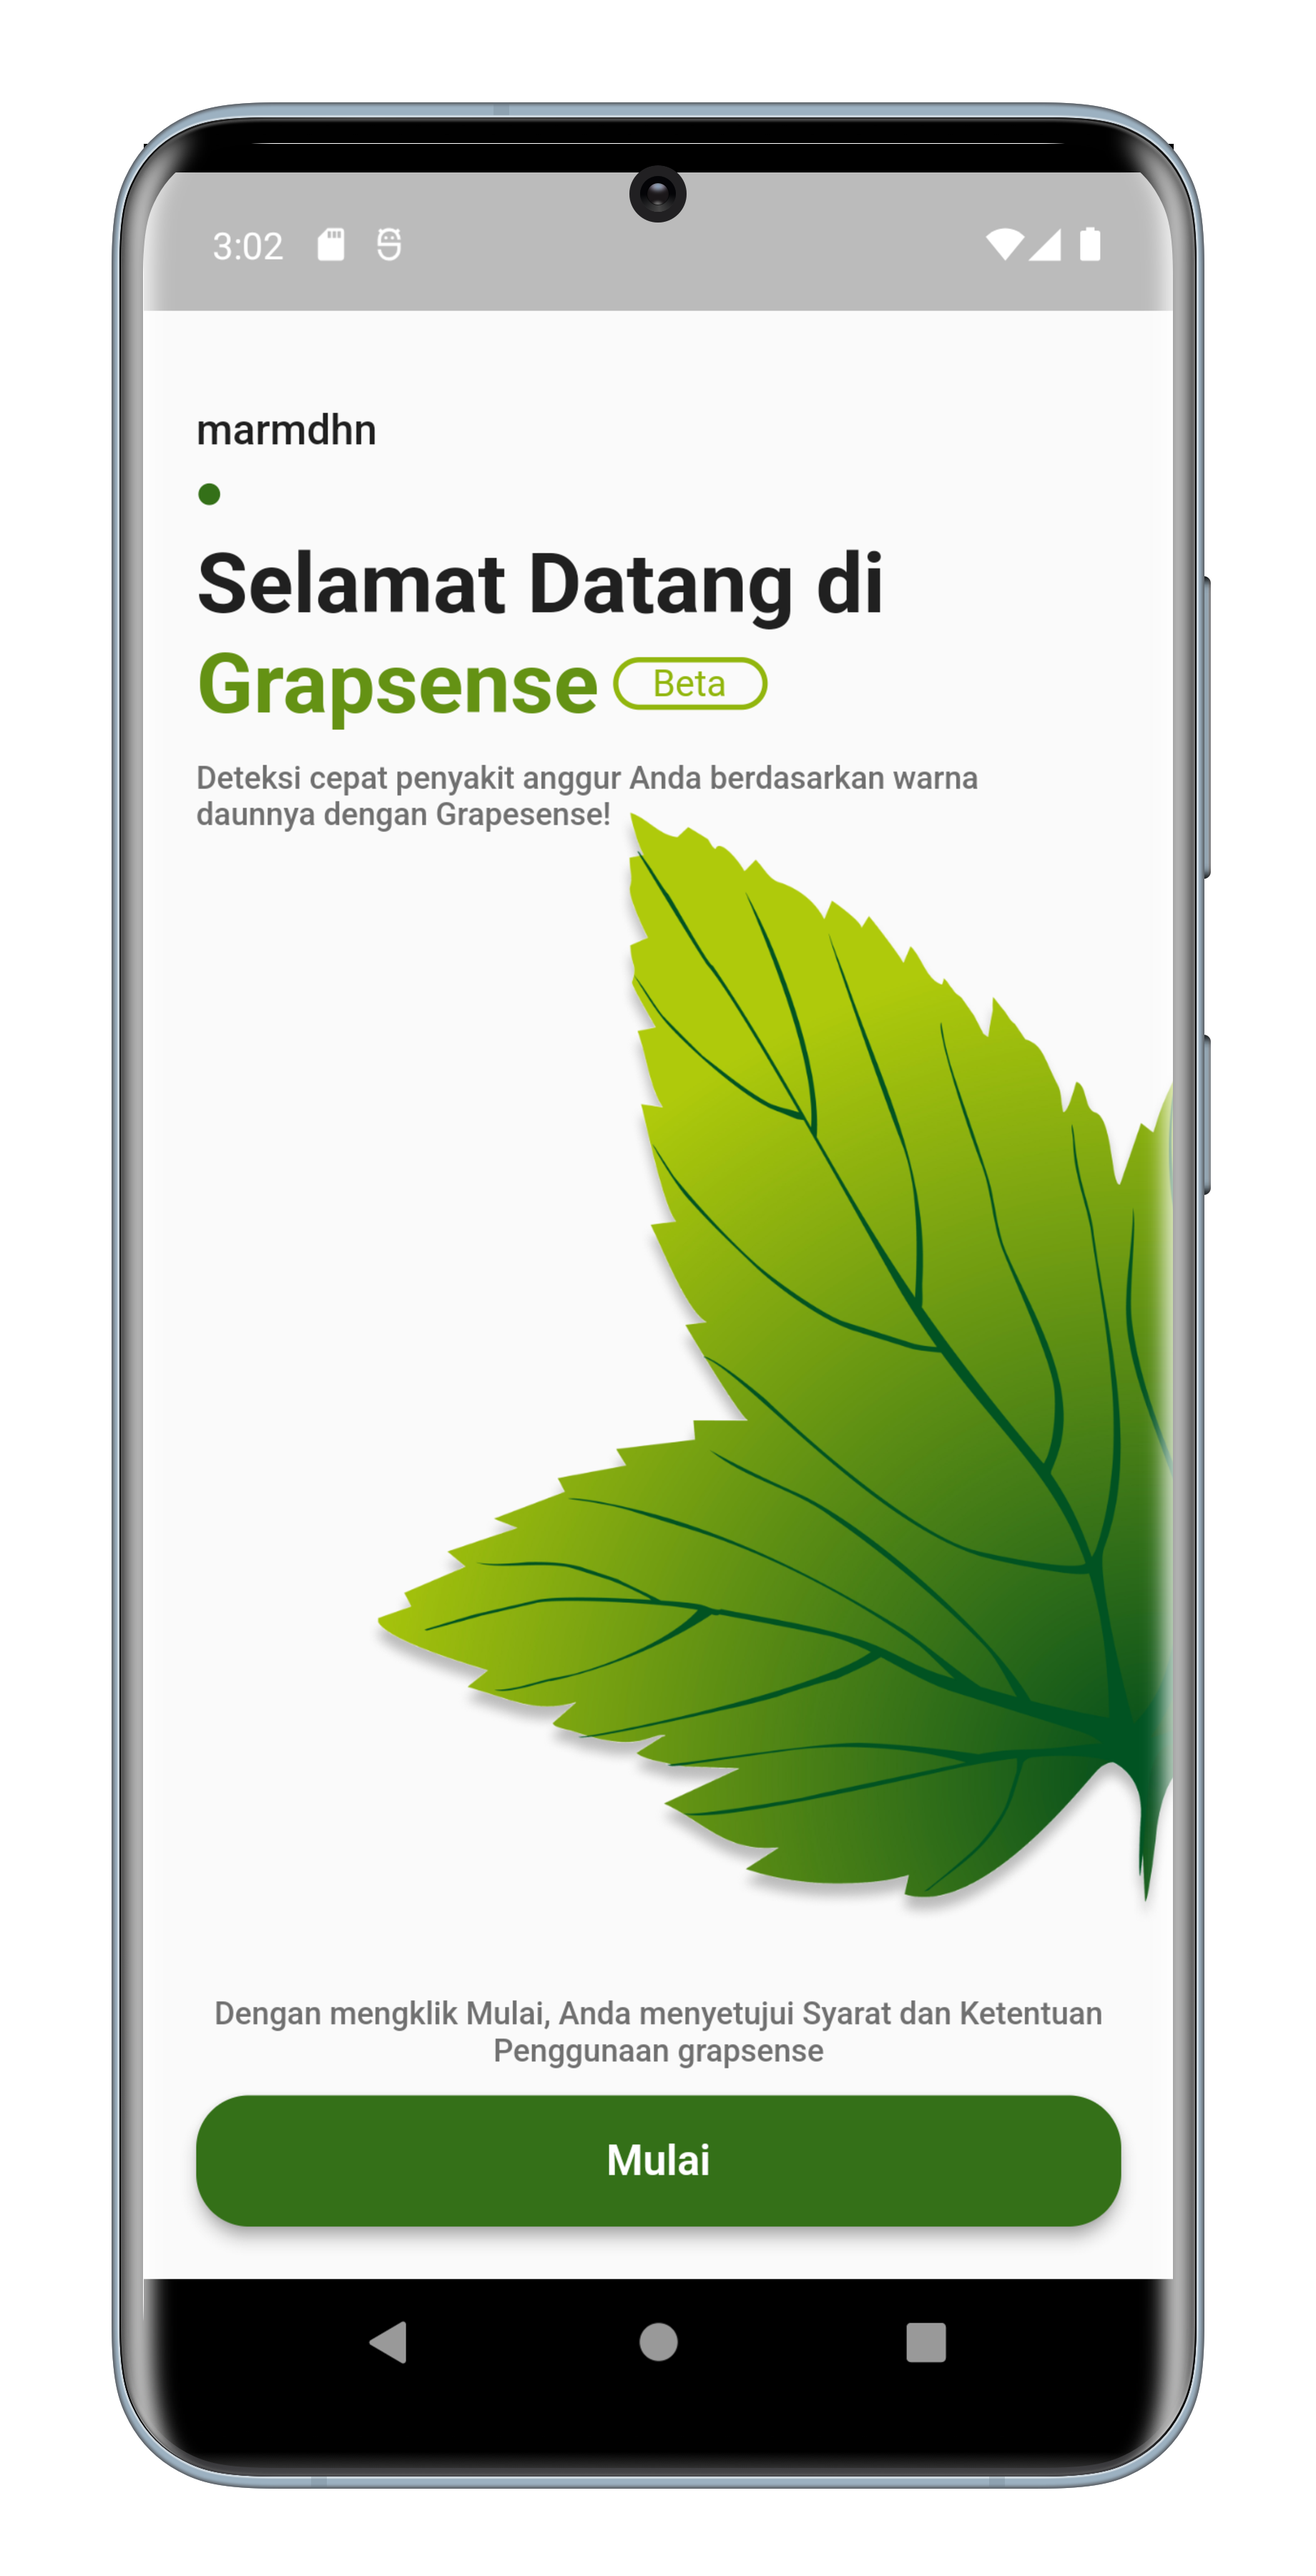
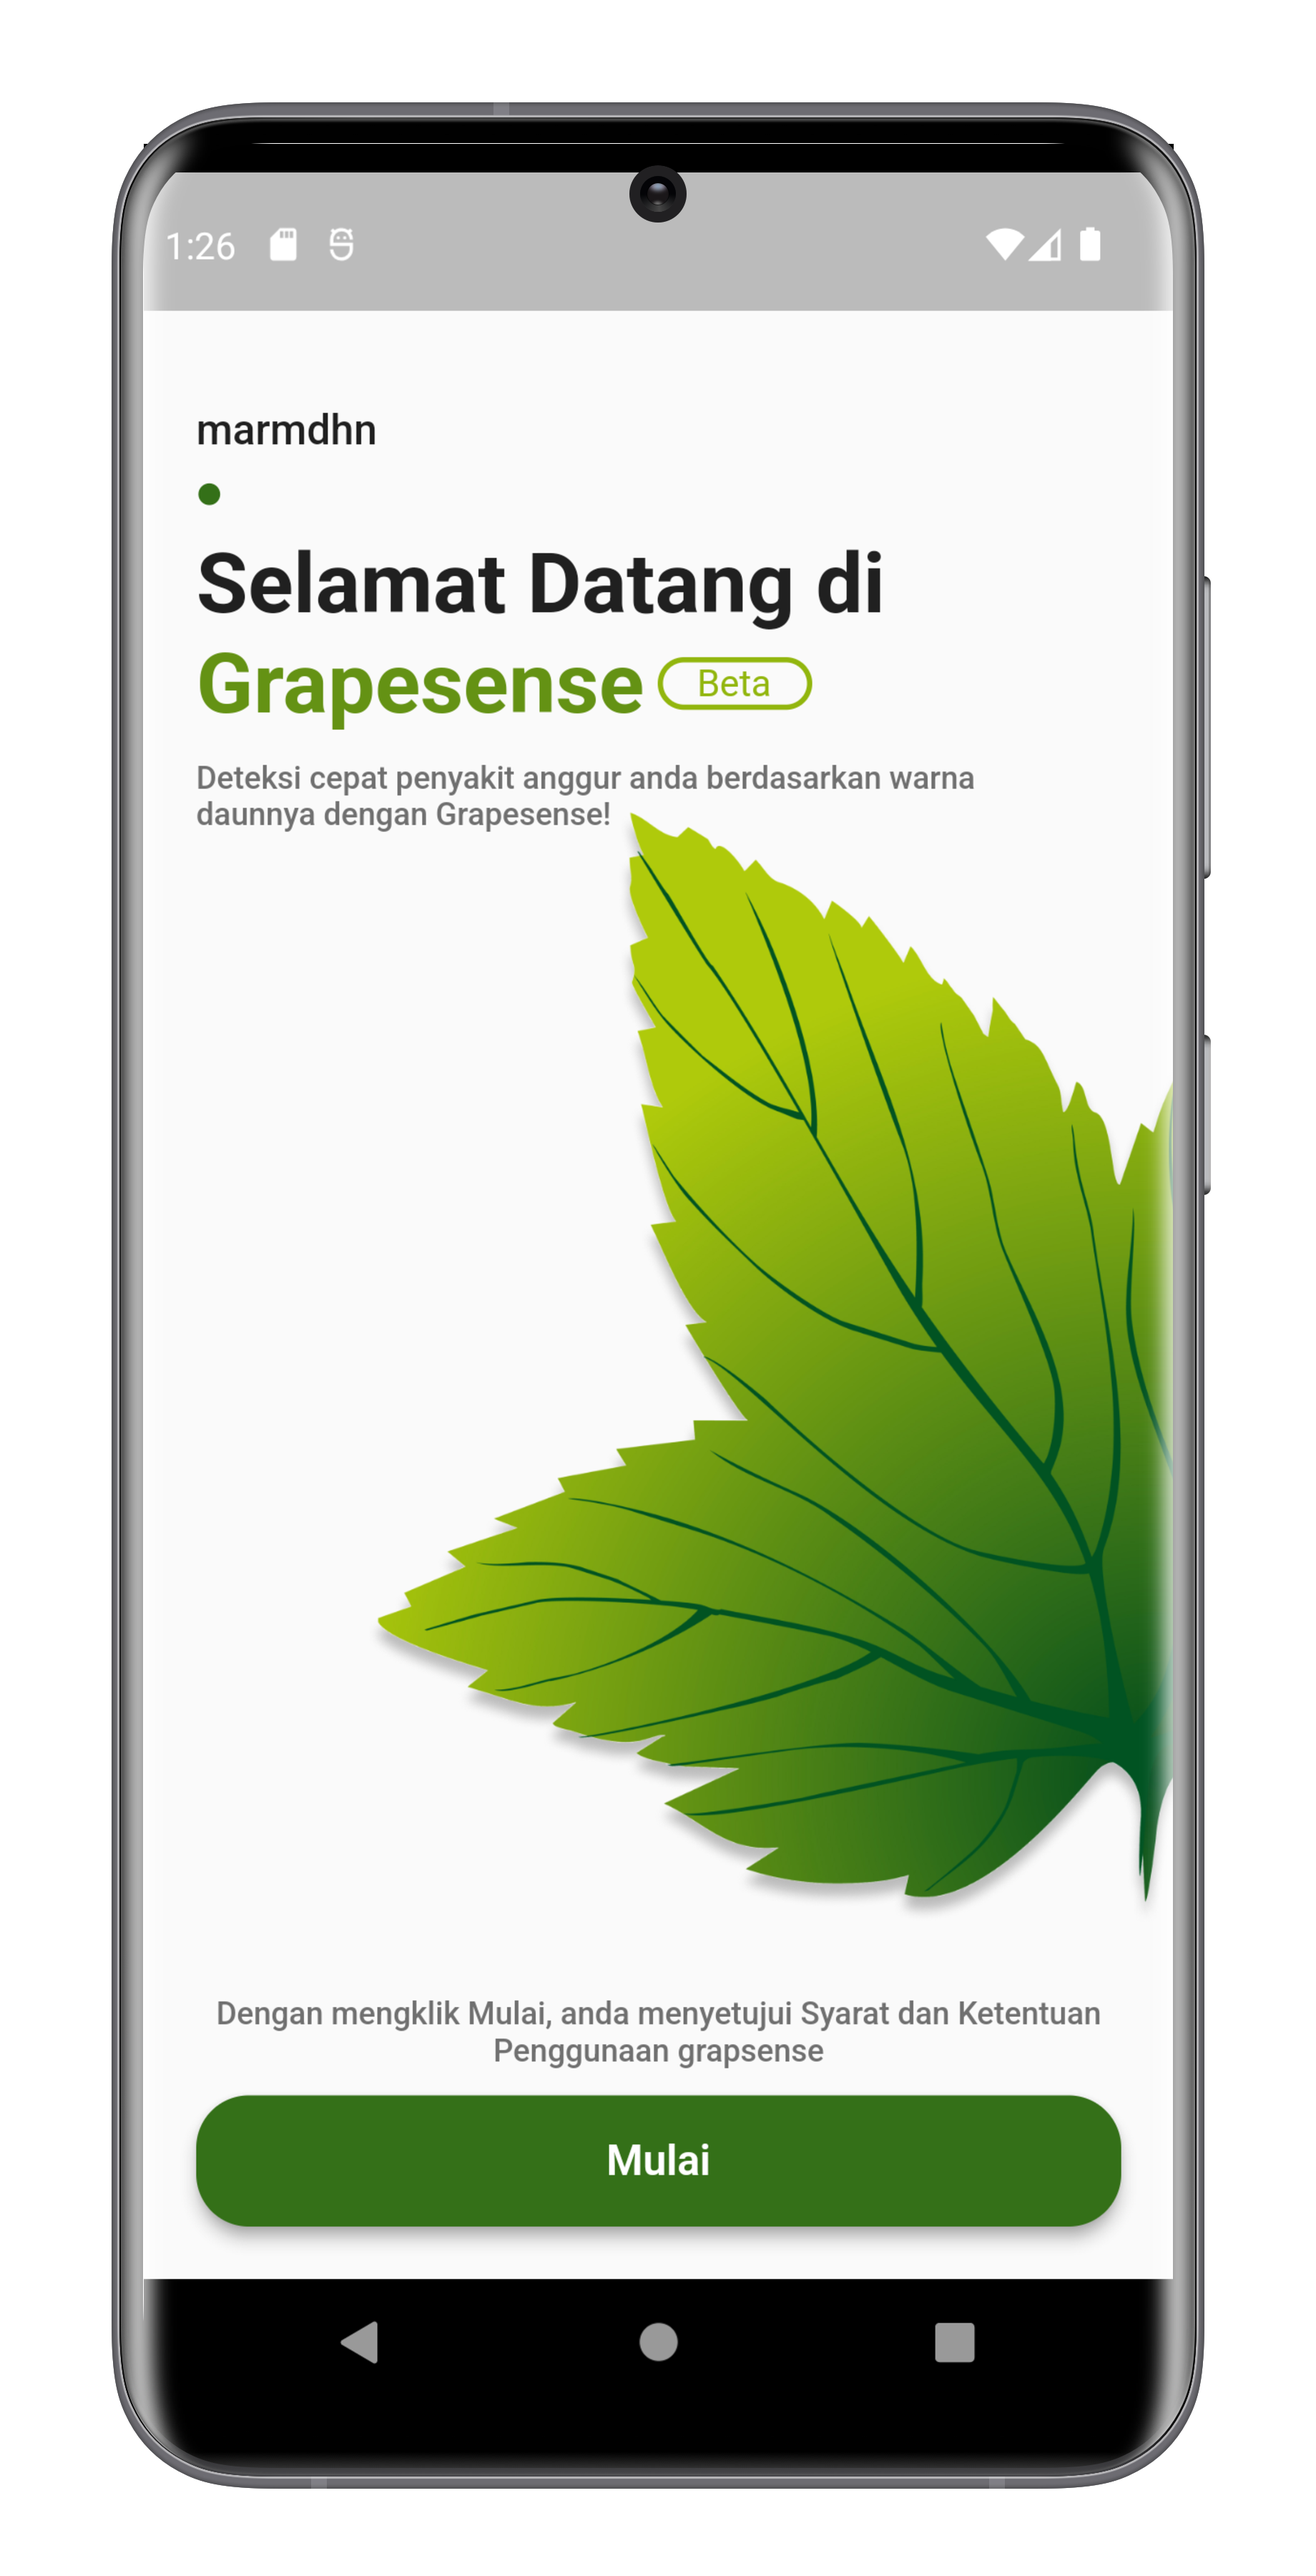
update 25 Juni 2023

diff --git a/skripsi_app_frontend/lib/screens/home/components/sidebar.dart b/skripsi_app_frontend/lib/screens/home/components/sidebar.dart
@@ -88,7 +88,7 @@ class _SideBarState extends State<SideBar> {
                   icon: Icons.logout,
                   onClicked: () async {
                     final action = await AlertDialogs.yesCancelDialog(
-                        context, 'Exit', 'are you sure?');
+                        context, 'Keluar', 'Apa kamu yakin untuk keluar?');
                     if (action == DialogsAction.yes) {
                       exit(0);
                     }
@@ -116,5 +116,67 @@ class _SideBarState extends State<SideBar> {
       hoverColor: hoverColor,
       onTap: onClicked,
     );
+  }
+}
+
+enum DialogsAction { yes, cancel }
+
+class AlertDialogs {
+  static Future<DialogsAction> yesCancelDialog(
+    BuildContext context,
+    String title,
+    String body,
+  ) async {
+    final action = await showDialog(
+      context: context,
+      barrierDismissible: false,
+      builder: (BuildContext context) {
+        return AlertDialog(
+          shape:
+              RoundedRectangleBorder(borderRadius: BorderRadius.circular(10.0)),
+          title: Text(
+            title,
+            style: const TextStyle(
+              fontSize: 18,
+              fontWeight: FontWeight.w600,
+              color: kHighlightTxtClr,
+            ),
+          ),
+          content: Text(
+            body,
+            style: const TextStyle(
+              fontSize: 16,
+              fontWeight: FontWeight.w400,
+              color: kHighlightTxtClr,
+            ),
+          ),
+          actions: <Widget>[
+            Row(
+              mainAxisAlignment: MainAxisAlignment.spaceAround,
+              children: [
+                MaterialButton(
+                  onPressed: () =>
+                      Navigator.of(context).pop(DialogsAction.cancel),
+                  child: const Text(
+                    'Tidak',
+                    style: TextStyle(
+                        color: kHighlightTxtClr, fontWeight: FontWeight.bold),
+                  ),
+                ),
+                MaterialButton(
+                  onPressed: () => Navigator.of(context).pop(DialogsAction.yes),
+                  child: const Text(
+                    'Iya',
+                    style: TextStyle(
+                        color: kDangerClr, fontWeight: FontWeight.w700),
+                  ),
+                )
+              ],
+            )
+          ],
+        );
+      },
+    );
+    return (action != null) ? action : DialogsAction.cancel;
   }
 }

diff --git a/skripsi_app_frontend/lib/screens/home/home_screen.dart b/skripsi_app_frontend/lib/screens/home/home_screen.dart
@@ -21,7 +21,10 @@ class _HomeScreenState extends State<HomeScreen> {
   final ImagePicker picker = ImagePicker();
 
   Future getImageCam() async {
-    final pickedFile = await picker.pickImage(source: ImageSource.camera);
+    final pickedFile = await picker.pickImage(
+      source: ImageSource.camera,
+      preferredCameraDevice: CameraDevice.rear,
+    );
     if (pickedFile != null) {
       image = File(pickedFile.path);
     }
@@ -243,67 +246,5 @@ class _HomeScreenState extends State<HomeScreen> {
         ),
       ),
     );
-  }
-}
-
-enum DialogsAction { yes, cancel }
-
-class AlertDialogs {
-  static Future<DialogsAction> yesCancelDialog(
-    BuildContext context,
-    String title,
-    String body,
-  ) async {
-    final action = await showDialog(
-      context: context,
-      barrierDismissible: false,
-      builder: (BuildContext context) {
-        return AlertDialog(
-          shape:
-              RoundedRectangleBorder(borderRadius: BorderRadius.circular(10.0)),
-          title: Text(
-            title,
-            style: const TextStyle(
-              fontSize: 18,
-              fontWeight: FontWeight.w600,
-              color: kHighlightTxtClr,
-            ),
-          ),
-          content: Text(
-            body,
-            style: const TextStyle(
-              fontSize: 16,
-              fontWeight: FontWeight.w400,
-              color: kHighlightTxtClr,
-            ),
-          ),
-          actions: <Widget>[
-            Row(
-              mainAxisAlignment: MainAxisAlignment.spaceAround,
-              children: [
-                MaterialButton(
-                  onPressed: () =>
-                      Navigator.of(context).pop(DialogsAction.cancel),
-                  child: const Text(
-                    'Cancel',
-                    style: TextStyle(
-                        color: kHighlightTxtClr, fontWeight: FontWeight.bold),
-                  ),
-                ),
-                MaterialButton(
-                  onPressed: () => Navigator.of(context).pop(DialogsAction.yes),
-                  child: const Text(
-                    'Yes',
-                    style: TextStyle(
-                        color: kDangerClr, fontWeight: FontWeight.w700),
-                  ),
-                )
-              ],
-            )
-          ],
-        );
-      },
-    );
-    return (action != null) ? action : DialogsAction.cancel;
   }
 }

diff --git a/skripsi_app_frontend/lib/screens/welcome/welcome_screen.dart b/skripsi_app_frontend/lib/screens/welcome/welcome_screen.dart
@@ -59,7 +59,7 @@ class WelcomeScreen extends StatelessWidget {
                       Row(
                         children: [
                           const Text(
-                            "Grapsense",
+                            "Grapesense",
                             style: TextStyle(
                               color: kHighlightTxtClr,
                               fontSize: 32,
@@ -95,7 +95,7 @@ class WelcomeScreen extends StatelessWidget {
                       const Padding(
                         padding: EdgeInsets.only(right: 10),
                         child: Text(
-                          "Deteksi cepat penyakit anggur Anda berdasarkan warna daunnya dengan Grapesense!",
+                          "Deteksi cepat penyakit anggur anda berdasarkan warna daunnya dengan Grapesense!",
                           style: TextStyle(
                             color: kSubTxtClr,
                             fontSize: 12,
@@ -108,7 +108,7 @@ class WelcomeScreen extends StatelessWidget {
                   const Spacer(),
                   const Center(
                     child: Text(
-                      "Dengan mengklik Mulai, Anda menyetujui Syarat dan Ketentuan Penggunaan grapsense",
+                      "Dengan mengklik Mulai, anda menyetujui Syarat dan Ketentuan Penggunaan grapsense",
                       style: TextStyle(
                         color: kSubTxtClr,
                         fontSize: 12,

diff --git a/skripsi_app_frontend/lib/main.dart b/skripsi_app_frontend/lib/main.dart
@@ -4,7 +4,7 @@ import 'package:skripsi_app_frontend/screens/splash/splash_screen.dart';
 void main() {
   runApp(const MyApp());
 }
-  
+
 class MyApp extends StatelessWidget {
   const MyApp({super.key});
 
@@ -13,7 +13,7 @@ class MyApp extends StatelessWidget {
   Widget build(BuildContext context) {
     return MaterialApp(
       debugShowCheckedModeBanner: false,
-      title: 'Grapsense Apps',
+      title: 'Grapesense Apps',
       theme: ThemeData(
         primarySwatch: Colors.blue,
       ),

diff --git a/skripsi_app_frontend/lib/screens/Dataset_info/datataset_info_screen.dart b/skripsi_app_frontend/lib/screens/Dataset_info/datataset_info_screen.dart
@@ -45,7 +45,7 @@ class DatasetScreen extends StatelessWidget {
                 color: Colors.white,
                 boxShadow: [
                   BoxShadow(
-                    color: kButtonClr.withOpacity(0.5),
+                    color: Colors.grey.withOpacity(0.5),
                     spreadRadius: 1,
                     blurRadius: 5,
                     offset: const Offset(0, 2),

diff --git a/skripsi_app_frontend/lib/screens/how_to_use/how_to_use_screen.dart b/skripsi_app_frontend/lib/screens/how_to_use/how_to_use_screen.dart
@@ -160,7 +160,10 @@ class _HowToUseScreenState extends State<HowToUseScreen> {
       ),
       body: SafeArea(
         child: Padding(
-          padding: const EdgeInsets.all(10),
+          padding: const EdgeInsets.symmetric(
+            horizontal: 0,
+            vertical: 10,
+          ),
           child: Column(children: [
             Expanded(
               child: CarouselSlider(

diff --git a/skripsi_app_frontend/lib/screens/splash/splash_screen.dart b/skripsi_app_frontend/lib/screens/splash/splash_screen.dart
@@ -13,7 +13,7 @@ class _SplashScreenState extends State<SplashScreen> {
   @override
   void initState() {
     super.initState();
-    Future.delayed(const Duration(seconds: 5), () {
+    Future.delayed(const Duration(seconds: 3), () {
       Navigator.pushAndRemoveUntil(
           context,
           MaterialPageRoute(

diff --git a/skripsi_app_backend/Code/API/Flask_API.py b/skripsi_app_backend/Code/API/Flask_API.py
@@ -32,29 +32,26 @@ def preprocessing(image):
         y = 0
     cropped_image = image[y:y+crop_size, x:x+crop_size]
 
-    # Resize image
-    resized_image = cv2.resize(cropped_image, (1080, 1080))
+    # Konversi gambar ke skala abu-abu
+    gray = cv2.cvtColor(cropped_image, cv2.COLOR_BGR2GRAY)
 
-    # # Konversi gambar ke skala abu-abu
-    # gray = cv2.cvtColor(image, cv2.COLOR_BGR2GRAY)
+    # Thresholding thresholding pada gambar untuk memisahkan objek dari latar belakang
+    _, thresh = cv2.threshold(
+        gray, 0, 255, cv2.THRESH_BINARY_INV+cv2.THRESH_OTSU)
 
-    # # Thresholding thresholding pada gambar untuk memisahkan objek dari latar belakang
-    # _, thresh = cv2.threshold(
-    #     gray, 0, 255, cv2.THRESH_BINARY_INV+cv2.THRESH_OTSU)
+    # Temukan kontur pada gambar yang telah dithreshold dan dapatkan kontur terbesar yang diasumsikan sebagai objek daun
+    contours, _ = cv2.findContours(
+        thresh, cv2.RETR_EXTERNAL, cv2.CHAIN_APPROX_SIMPLE)
+    cnt = max(contours, key=cv2.contourArea)
 
-    # # Temukan kontur pada gambar yang telah dithreshold dan dapatkan kontur terbesar yang diasumsikan sebagai objek daun
-    # contours, _ = cv2.findContours(
-    #     thresh, cv2.RETR_EXTERNAL, cv2.CHAIN_APPROX_SIMPLE)
-    # cnt = max(contours, key=cv2.contourArea)
+    # Dapatkan koordinat bounding box (kotak pembatas) dari kontur
+    x, y, w, h = cv2.boundingRect(cnt)
 
-    # # Dapatkan koordinat bounding box (kotak pembatas) dari kontur
-    # x, y, w, h = cv2.boundingRect(cnt)
+    # Dapatkan ROI (Region of Interest) menggunakan koordinat bounding box
+    roi = image[y:y+h, x:x+w]
 
-    # # Dapatkan ROI (Region of Interest) menggunakan koordinat bounding box
-    # roi = image[y:y+h, x:x+w]
-
-    # # resize ROI hasil segmentasi
-    # resized_image = cv2.resize(roi, (720, 720))
+    # resize ROI hasil segmentasi
+    resized_image = cv2.resize(roi, (720, 720))
 
     return resized_image
 
